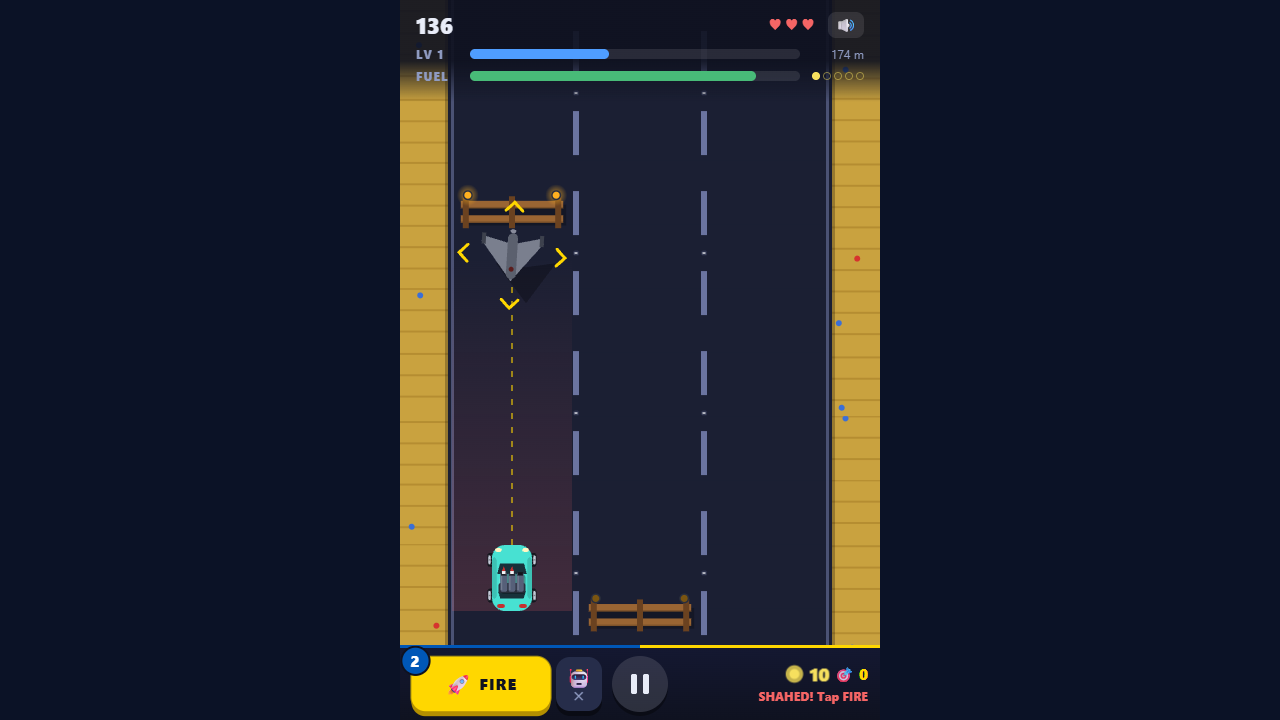
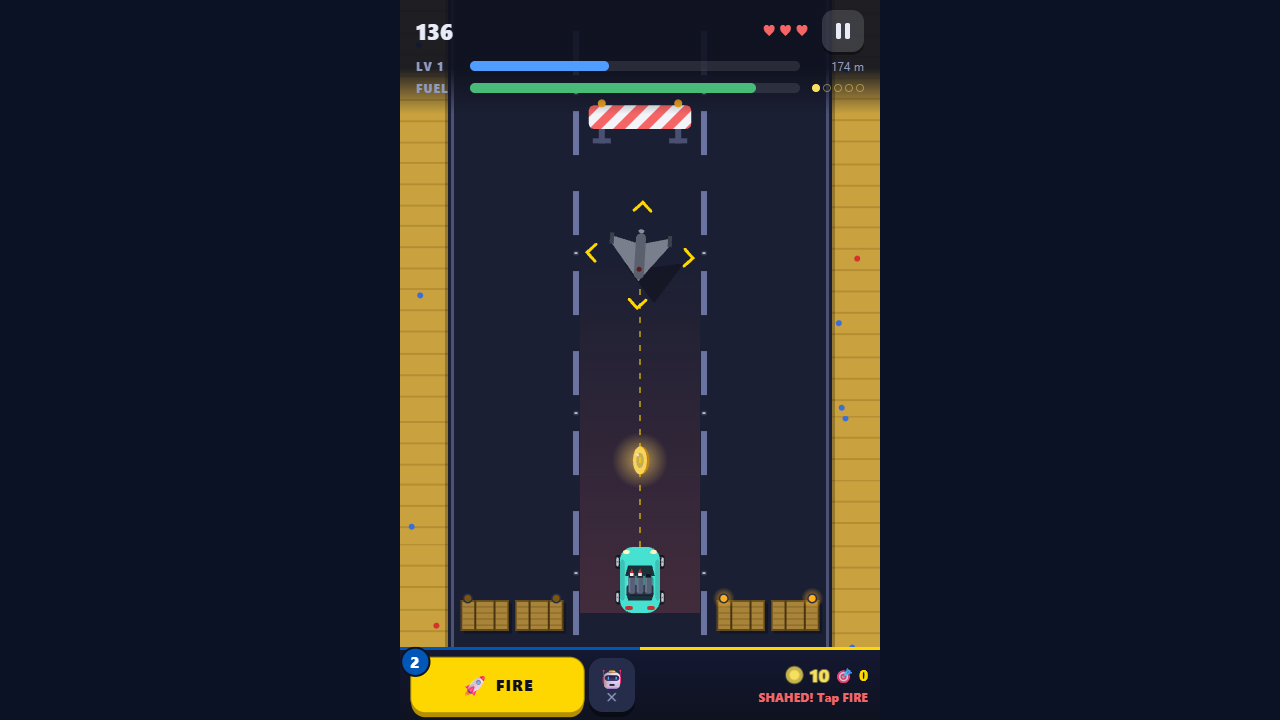
Pause moves to the top-right corner
Most mobile games keep pause small in a top corner, away from the thumb
zones at the bottom. With FIRE now bottom left, a pause button beside it
was easy to hit by accident while firing.

- Pause is a 42 px button at the top right of the HUD, where the speaker
  icon was. Sound is now in the pause menu's Settings (M still toggles it).
- The launch bar is two equal halves: FIRE and auto-fire on one side,
  coin info on the other (still swappable in Settings).
- Install screenshots refreshed; cache version v68.

Changed region(s): [[0.3125, 0.6111, 0.6875, 1.0], [0.3125, 0.0, 0.6875, 0.2139], [0.3438, 0.2444, 0.5312, 0.4278]]

diff --git a/index.html b/index.html
@@ -87,24 +87,20 @@
   #heartProg { margin-top: 2px; font-size: 10px; font-weight: 800; letter-spacing: .5px; color: var(--muted); font-variant-numeric: tabular-nums; }
   #lives.gain { animation: livesGain .6s cubic-bezier(.2,1.6,.4,1); }
   @keyframes livesGain { 30% { transform: scale(1.4); text-shadow: 0 0 12px var(--enemy); } }
-  #mute {
-    pointer-events: auto; margin: 0; padding: 5px 7px; font-size: 16px; line-height: 1; border-radius: 8px;
-    background: rgba(255,255,255,.1); color: var(--text); box-shadow: none;
-  }
-  #mute:active { transform: scale(.92); box-shadow: none; }
-  /* Pause: round button in the bottom bar, between the coin info and FIRE */
+  /* Pause: top-right corner of the HUD, like most mobile games — out of the thumb zones at the
+     bottom, so firing or steering never pauses by accident. (Sound lives in the pause menu's Settings.) */
   #pauseBtn {
-    flex: none; position: relative; width: 56px; height: 56px; margin: 0; padding: 0; border-radius: 50%;
-    font-size: 0; color: transparent;              /* bars are drawn below, not the ⏸ emoji (it sits off-centre) */
-    background: rgba(255,255,255,.12); box-shadow: 0 4px 0 rgba(0,0,0,.35);
+    flex: none; position: relative; width: 42px; height: 42px; margin: 0; padding: 0; border-radius: 12px;
+    pointer-events: auto; font-size: 0; color: transparent;   /* bars are drawn below, not the ⏸ emoji (it sits off-centre) */
+    background: rgba(255,255,255,.14); box-shadow: 0 3px 0 rgba(0,0,0,.35);
   }
   #pauseBtn::before, #pauseBtn::after {
-    content: ""; position: absolute; top: 50%; width: 6px; height: 20px; margin-top: -10px;
+    content: ""; position: absolute; top: 50%; width: 5px; height: 16px; margin-top: -8px;
     border-radius: 2px; background: var(--text);
   }
-  #pauseBtn::before { left: calc(50% - 9px); }
-  #pauseBtn::after  { left: calc(50% + 3px); }
-  #pauseBtn:active { transform: translateY(3px); box-shadow: 0 1px 0 rgba(0,0,0,.35); }
+  #pauseBtn::before { left: calc(50% - 7px); }
+  #pauseBtn::after  { left: calc(50% + 2px); }
+  #pauseBtn:active { transform: translateY(2px); box-shadow: 0 1px 0 rgba(0,0,0,.35); }
   #pause { background: rgba(6, 8, 16, .78); -webkit-backdrop-filter: blur(3px); backdrop-filter: blur(3px); }
   .pauseCard { gap: 18px; max-width: 300px; }
   .pauseCard h1 { font-size: 36px; }
@@ -119,8 +115,8 @@
   /* Shahed drones: rocket counter / fire button */
   /* Launch bar under the road: coin progress on the left, a big fire button on the right */
   #eggBar {
-    /* three columns, equal sides, so the pause button sits dead centre */
-    flex: none; display: grid; grid-template-columns: minmax(0, 1fr) auto minmax(0, 1fr); align-items: center; gap: 10px; padding: 8px 12px;
+    /* two equal halves: FIRE + auto-fire on one side, coin info on the other */
+    flex: none; display: grid; grid-template-columns: minmax(0, 1fr) minmax(0, 1fr); align-items: center; gap: 10px; padding: 8px 12px;
     background: linear-gradient(#141831, #0f1220); border-top: 3px solid; border-image: linear-gradient(90deg, #0057B7 50%, #FFD700 50%) 1;
   }
   #wrap.at-home #eggBar { visibility: hidden; }
@@ -603,7 +599,6 @@
       <div class="eggTop"><span id="coinCount" class="coinChip"><i></i><b>0</b></span><span class="eggKills" id="eggKills">🎯 0</span></div>
       <div class="eggSub"><span class="eggCoins" id="eggCoins"><i></i><i></i><i></i></span><span id="eggNext"></span></div>
     </div>
-    <button id="pauseBtn" type="button" data-i18n-title="pause" data-i18n-aria="pause" aria-label="Pause">⏸</button>
     <!-- right-hand column: the auto-fire switch as a block button, then FIRE -->
     <div class="fireWrap">
       <div id="fireHint" class="fireHint" aria-hidden="true" hidden></div>
@@ -613,7 +608,7 @@
   </div>
 
   <div id="hud">
-    <div class="hrow"><span id="score">0</span><span id="streak">×2</span><span class="livesBox"><span id="lives"></span><span id="heartProg" hidden></span></span><button id="mute" type="button" aria-label="Mute sound">🔊</button></div>
+    <div class="hrow"><span id="score">0</span><span id="streak">×2</span><span class="livesBox"><span id="lives"></span><span id="heartProg" hidden></span></span><button id="pauseBtn" type="button" data-i18n-title="pause" data-i18n-aria="pause" aria-label="Pause">⏸</button></div>
     <div class="hrow"><span class="tag" id="level">LV 1</span><div class="bar"><div id="prog"></div></div><span class="small" id="togo">400 m</span></div>
     <div class="hrow" id="fuelRow"><span class="tag" data-i18n="fuel">FUEL</span><div class="bar"><div id="fuel"></div></div><span id="pips" data-i18n-title="pipsTitle" title="Coins until next fuel top-up"><i></i><i></i><i></i><i></i><i></i></span></div>
   </div>
@@ -3355,17 +3350,13 @@ window.LD_RULES = (() => {
   document.addEventListener('visibilitychange', () => {
     if (document.hidden) { pauseGame(); sfx.suspend(); } else sfx.ensure();
   });
-  const muteBtn = $('mute');
   function paintMute() {
-    muteBtn.textContent = sfx.muted ? '🔇' : '🔊';
-    muteBtn.setAttribute('aria-label', t(sfx.muted ? 'unmute' : 'mute'));
     const sb = $('soundBtn');
     sb.textContent = (sfx.muted ? '🔇 ' : '🔊 ') + t(sfx.muted ? 'soundOff' : 'soundOn');
     sb.setAttribute('aria-pressed', String(!sfx.muted)); sb.classList.toggle('on', !sfx.muted);
   }
   I18N.onChange(paintMute);
-  function toggleMute() { sfx.ensure(); sfx.toggle(); paintMute(); muteBtn.blur(); }
-  muteBtn.addEventListener('click', toggleMute);
+  function toggleMute() { sfx.ensure(); sfx.toggle(); paintMute(); }
   window.addEventListener('keydown', e => { if (e.key === 'm' || e.key === 'M') toggleMute(); });
   paintMute();
 

diff --git a/sw.js b/sw.js
@@ -1,6 +1,6 @@
 // Offline support: cache the game shell, serve it cache-first, refresh in the background.
 // Bump VERSION whenever you want installed copies to drop the old cache.
-const VERSION = 'drone-dash-v67';
+const VERSION = 'drone-dash-v68';
 const ASSETS = [
   './',
   './index.html',
